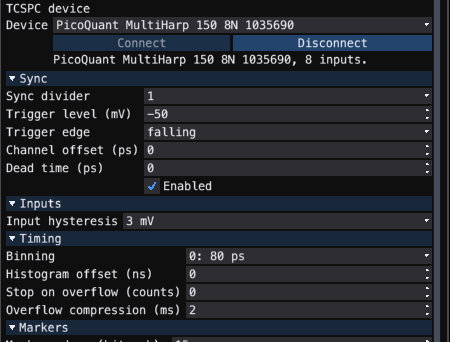
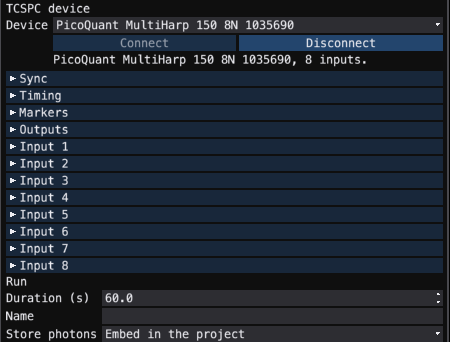
acq Record: device settings start folded by group
A TCSPC unit has dozens of settings: the device panel now opens with its group names (sync, timing, markers, outputs, one per input) and a fold opened stays open when the panel follows the device. The laser's few switches stay open. entry_form_view_for / GroupedEntryView take folded=; devices.settings_form folds by default.

diff --git a/chisurf/core/registry/tttrlib.py b/chisurf/core/registry/tttrlib.py
@@ -154,7 +154,7 @@ def _first_panel(view):
     return panel
 
 
-def _group_sections(sections, properties, title, description):
+def _group_sections(sections, properties, title, description, folded=False):
     """Split one flat parameter list into foldable panels.
 
     A search with a dozen parameters is unreadable as a single column, and which
@@ -199,7 +199,7 @@ def _group_sections(sections, properties, title, description):
                 n_col=1,
                 # Advanced parameters are the ones a user should not have to see to
                 # get a sensible result, so that panel starts folded.
-                collapsed=(name == ADVANCED_GROUP),
+                collapsed=folded or (name == ADVANCED_GROUP),
                 sections=tuple(members),
             )
         )
@@ -214,7 +214,7 @@ class GroupedEntryView:
     unchanged, so this only affects layout.
     """
 
-    def __init__(self, category, name, values=None, on_change=None, *, entry=None):
+    def __init__(self, category, name, values=None, on_change=None, *, entry=None, folded=False):
         from chisurf.core.dataspec import ModelView
         from chisurf.core.dataspec.rpc import RpcMethodView
 
@@ -234,6 +234,7 @@ class GroupedEntryView:
                 (spec.get("params_schema") or {}).get("properties") or {},
                 panel.title,
                 panel.description,
+                folded=folded,
             )
         )
 
@@ -256,16 +257,20 @@ def entry_form_view_for(
     entry: typing.Mapping[str, typing.Any],
     values: typing.Mapping[str, typing.Any] | None = None,
     on_change: typing.Callable | None = None,
+    *,
+    folded: bool = False,
 ):
     """A grouped form model for a registry entry given directly rather than by name.
 
     For entries that live outside tttrlib's table but speak its dialect -- a device's
     settings, which libphacq publishes per opened device (``Device.parameter_schema``).
+    ``folded`` starts every group folded (a device has dozens of settings; the panel opens
+    with their group names only).
     """
     if not entry.get("params_schema"):
         raise ValueError(f"{entry.get('name', '?')} publishes no parameters, so it has no form")
     return GroupedEntryView("", str(entry.get("name", "")), values=values, on_change=on_change,
-                            entry=entry)
+                            entry=entry, folded=folded)
 
 
 def _linked_property(spec: typing.Mapping) -> tuple[str, str, str] | None:

diff --git a/chisurf/plugins/core/acq/live/devices.py b/chisurf/plugins/core/acq/live/devices.py
@@ -151,7 +151,7 @@ def device_label(dev) -> str:
     return " ".join(x for x in (info.vendor, info.model, info.serial_number) if x)
 
 
-def settings_form(dev, values: dict | None = None, on_change=None):
+def settings_form(dev, values: dict | None = None, on_change=None, *, folded: bool = True):
     """The device's complete settings form: every setting phacq describes, grouped as the driver
     groups them (sync, inputs one panel each, timing, markers ...).
 
@@ -166,13 +166,15 @@ def settings_form(dev, values: dict | None = None, on_change=None):
         Initial values; defaults to what the device holds now (``dev.settings()``).
     on_change : callable, optional
         Called with no argument after an edit.
+    folded : bool
+        Start with every group folded (the default: a TCSPC unit has dozens of settings).
     """
     from chisurf.core.registry.tttrlib import entry_form_view_for
 
     current = dict(dev.settings())
     if values:
         current.update({k: v for k, v in values.items() if k in current})
-    return entry_form_view_for(dev.schema(), values=current, on_change=on_change)
+    return entry_form_view_for(dev.schema(), values=current, on_change=on_change, folded=folded)
 
 
 def apply_settings(dev, values: dict) -> list[str]:

diff --git a/chisurf/plugins/core/acq/gui/record_app.py b/chisurf/plugins/core/acq/gui/record_app.py
@@ -1392,7 +1392,9 @@ class RecordApp(ImApp):
             spec = native_reader_spec(form.view_spec())
             # every setting sits in a group: the entry's own (title) panel is empty
             spec["sections"] = [p for p in spec["sections"] if p.get("sections")]
-            cached = (form, spec, FormState())
+            # the form state outlives a rebuilt form: folds opened stay open
+            state_kept = cached[2] if cached is not None else FormState()
+            cached = (form, spec, state_kept)
             cached[2].on_used = self.form.on_used
             self._sub_forms[key] = cached
         # emtk's in-place form reads ``getattr(model, attr)``: the bound parameter group itself

diff --git a/chisurf/plugins/core/acq/gui/record_settings.py b/chisurf/plugins/core/acq/gui/record_settings.py
@@ -156,8 +156,9 @@ class LaserSettingsMixin:
         from chisurf.plugins.core.acq.live import devices
 
         self._laser_sent = dict(dev.settings())
+        # open: the laser's switches are the quick controls
         self.laser_form = devices.settings_form(dev, self._laser_sent,
-                                                on_change=self.laser_settings_edited)
+                                                on_change=self.laser_settings_edited, folded=False)
 
     def _laser_follow_device(self) -> None:
         """The laser's controls show the laser's values (read-only ones included), in place."""

diff --git a/docs/guides/65_live_acquisition.md b/docs/guides/65_live_acquisition.md
@@ -33,8 +33,8 @@ removed; there is one acquisition window, Record.
 itself — names, units, ranges, choices, which are per input — and Record builds
 the device's panel from that description, so nothing is left out and a setting
 a newer phacq adds appears without a ChiSurf change. Connect a device under
-**Acquisition → TCSPC device**: the sync, each input on its own fold, timing,
-markers and outputs (for a B&H card its CFD, sync, TAC, timers and FIFO mode).
+**Acquisition → TCSPC device**: its settings start folded by group — the sync,
+each input on its own fold, timing, markers and outputs (for a B&H card its CFD, sync, TAC, timers and FIFO mode).
 An edit is sent at once, between runs; a value the device refuses is named in
 the status line and nothing of that edit is applied. The values are saved in
 the acquisition settings file (``device.settings``, phacq's names).
@@ -43,8 +43,8 @@ the acquisition settings file (``device.settings``, phacq's names).
 :name: fig-65-record-device
 :width: 60%
 
-A MultiHarp 150 8N in Record's TCSPC device panel: the sync, the inputs'
-common hysteresis, timing and markers, then one fold per input (below the crop).
+A MultiHarp 150 8N in Record's TCSPC device panel: its settings start folded
+by group — sync, timing, markers, outputs, then one fold per input.
 ```
 
 **The laser.** Under **Laser**, a Sepia II shows its own switches, which act at
